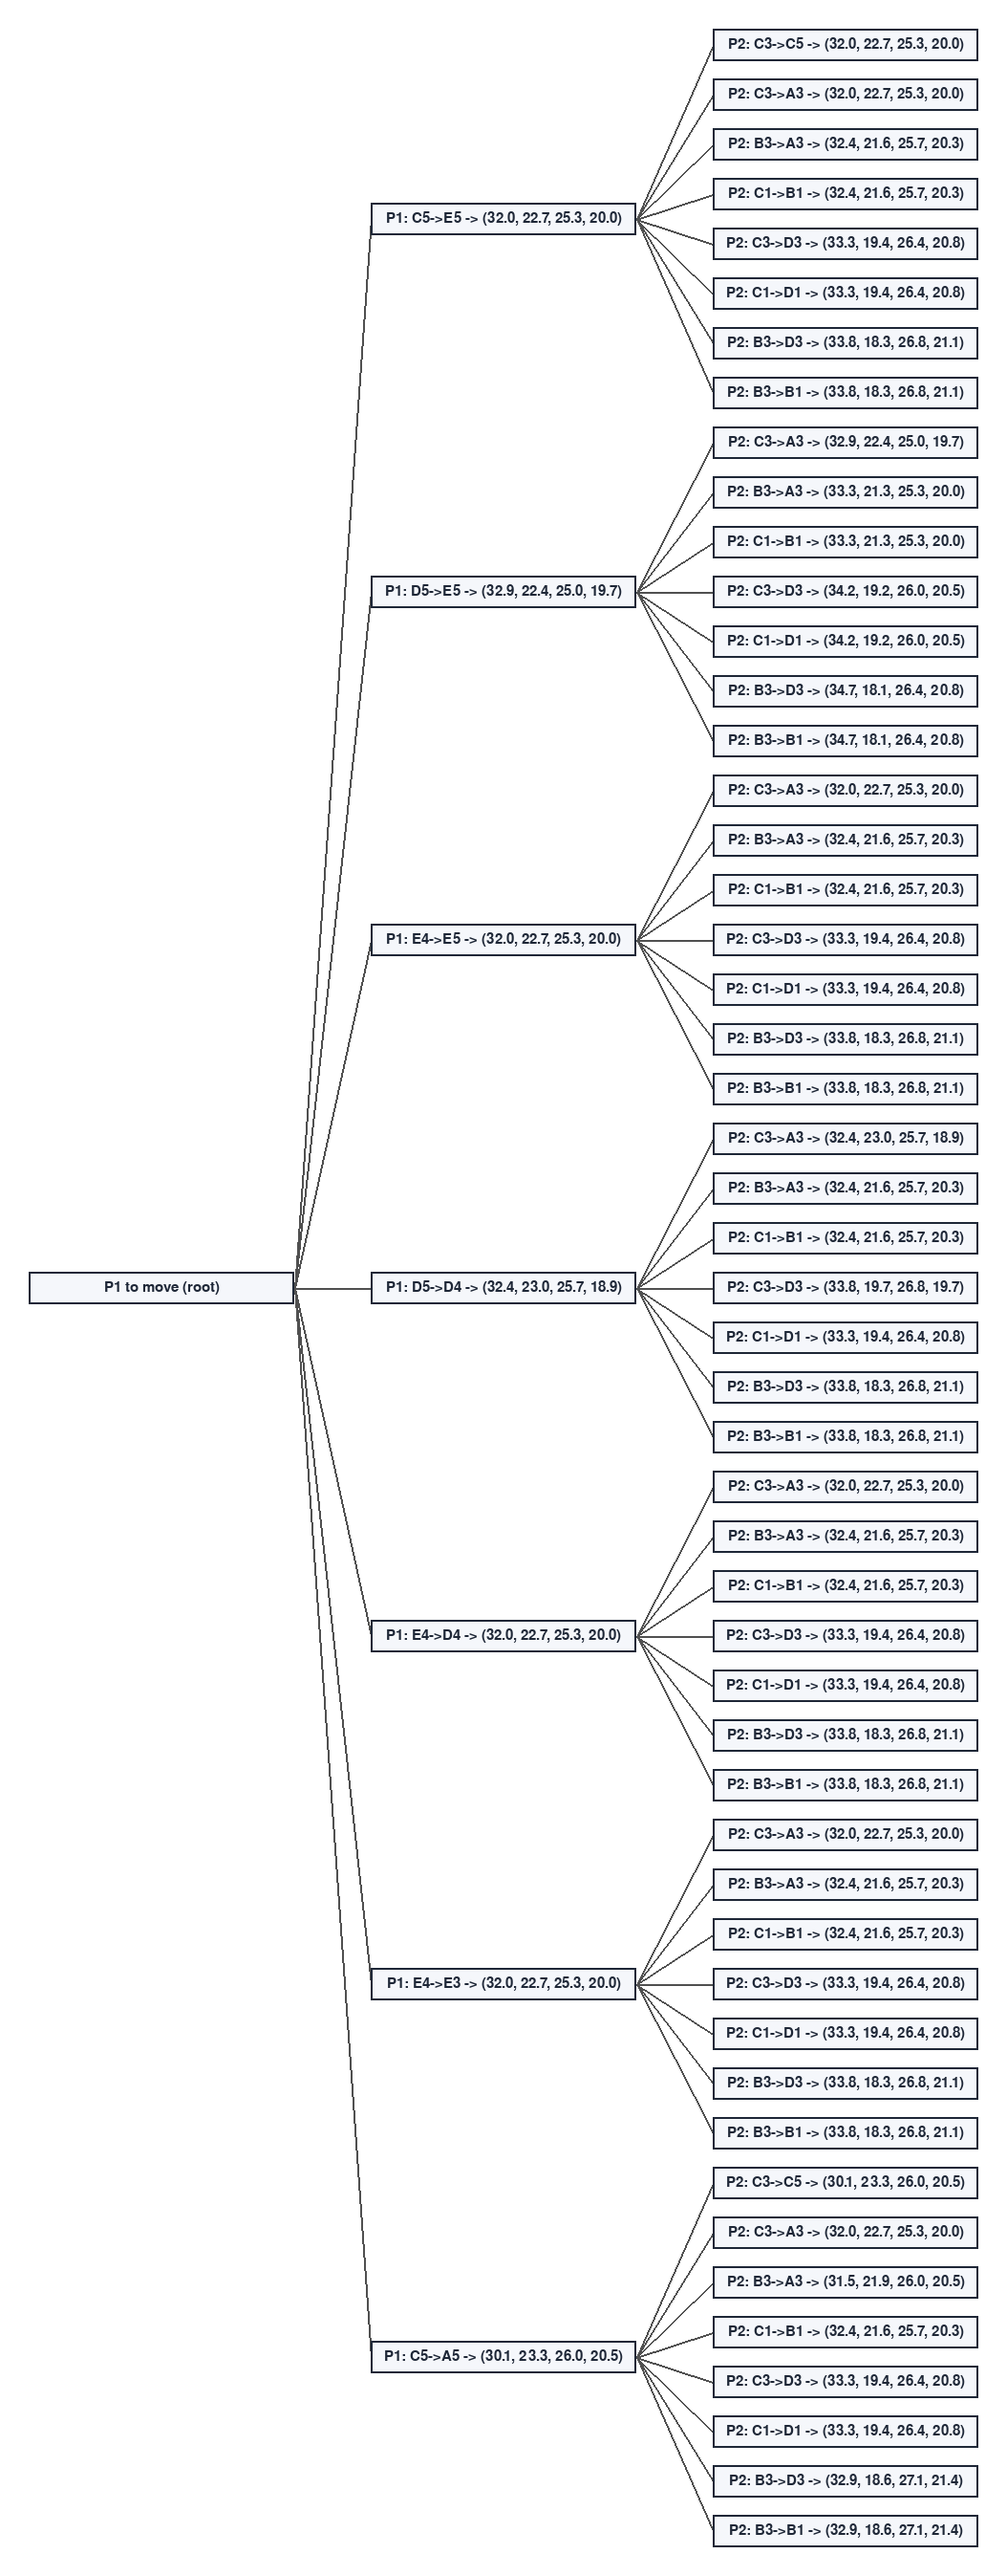
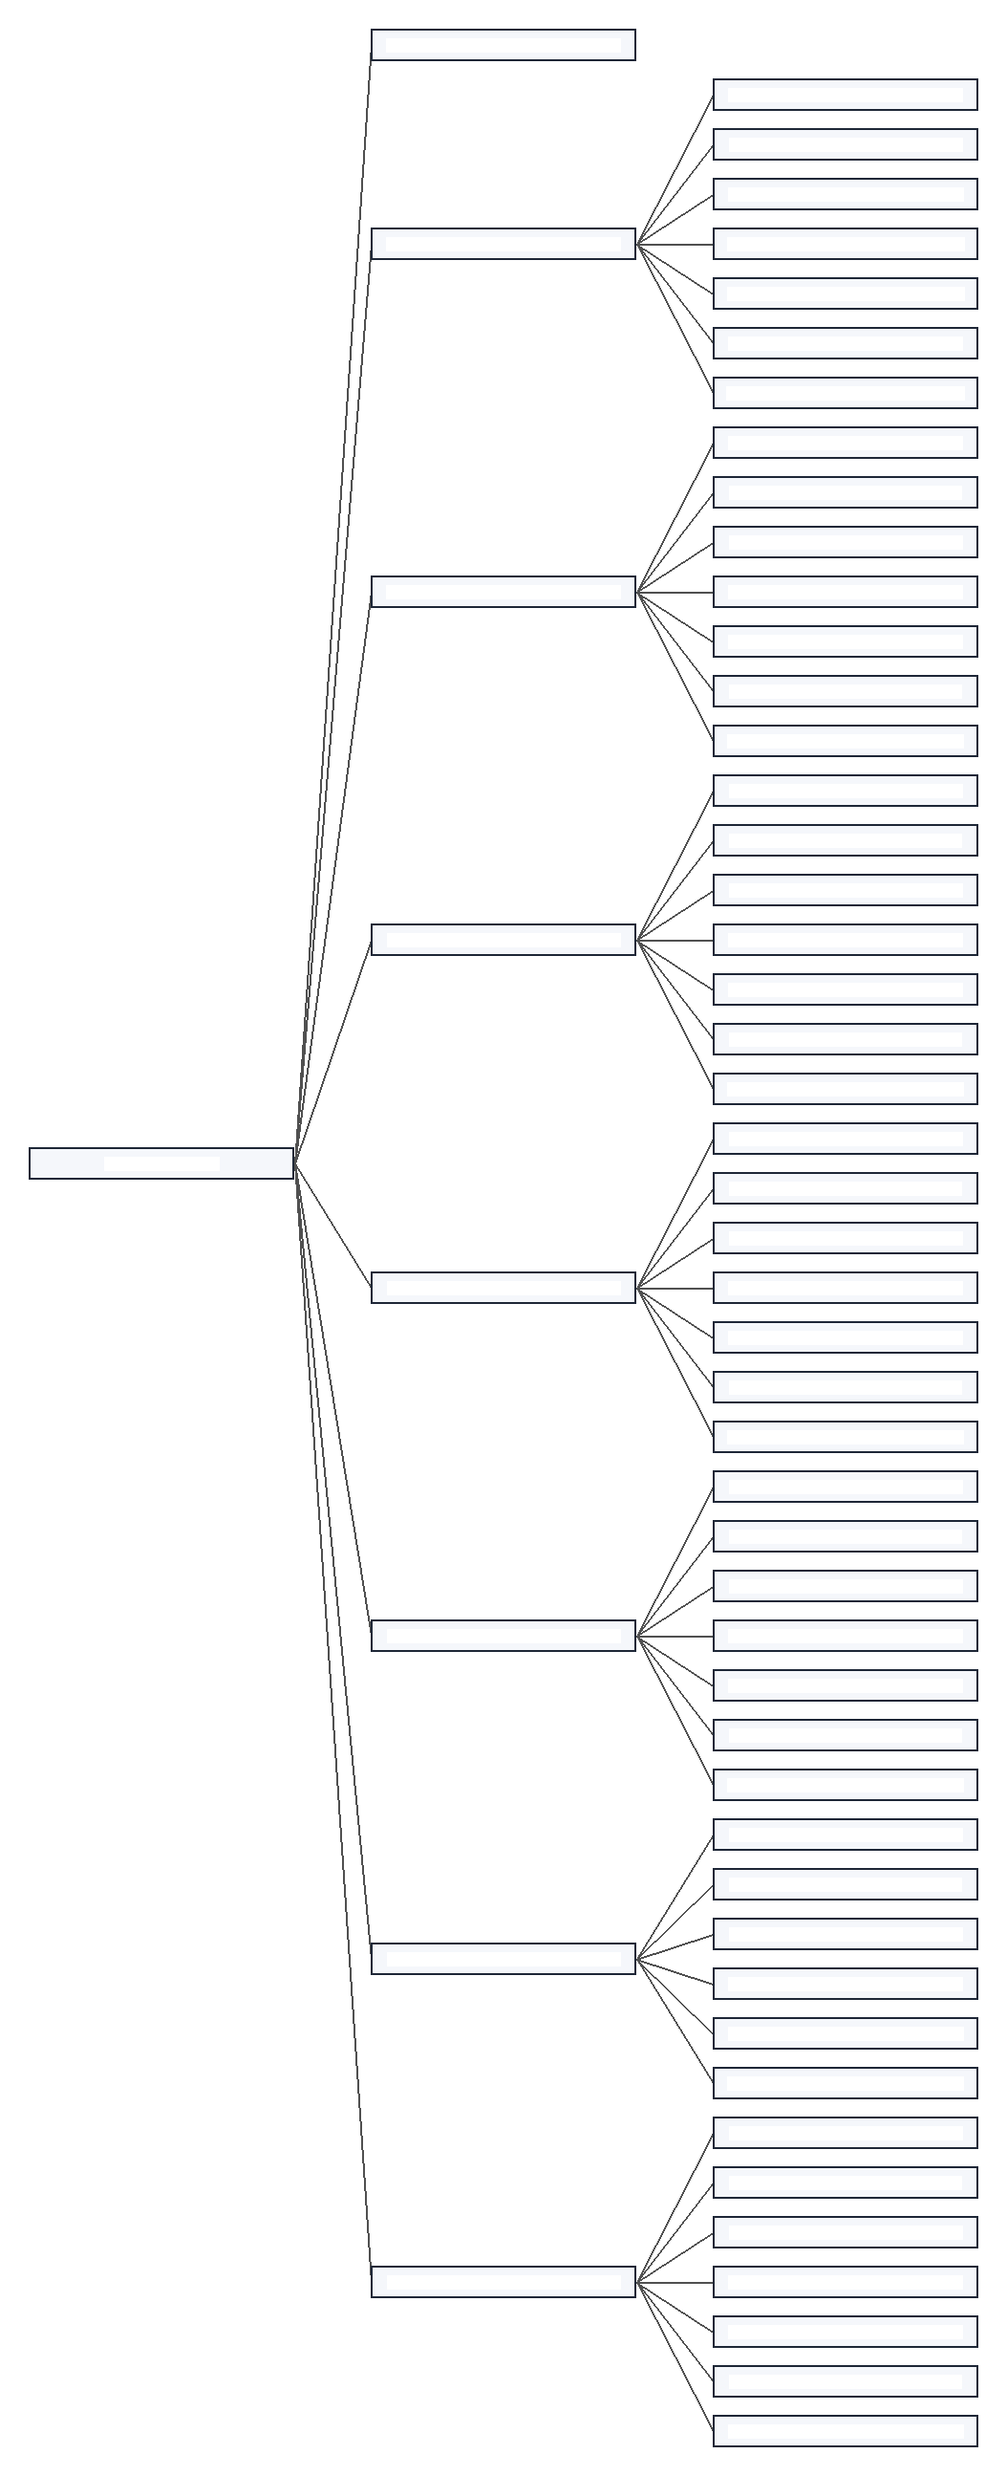
added changes so that player wins instead of playing waste moves

diff --git a/AI_Player_Team3.py b/AI_Player_Team3.py
@@ -14,6 +14,17 @@ def get_next_player(player):
         return 1
     return player + 1
 
+def has_any_player_won(board):
+    for player in [1, 2, 3, 4]:
+        won = True
+        for row, column in win_cells_all[player]:
+            if board[row][column] != player:
+                won = False
+                break
+        if won:
+            return True
+    return False
+
 def to_reference(position: Tuple[int, int]) -> str:
     row, column = position
     return chr(ord("A") + column) + str(row + 1)
@@ -127,7 +138,7 @@ def maxn(
 ):
     global node_counter
 
-    if plies_left == 0:
+    if plies_left == 0 or has_any_player_won(board):
         return evaluate(board), None
 
     key = (
